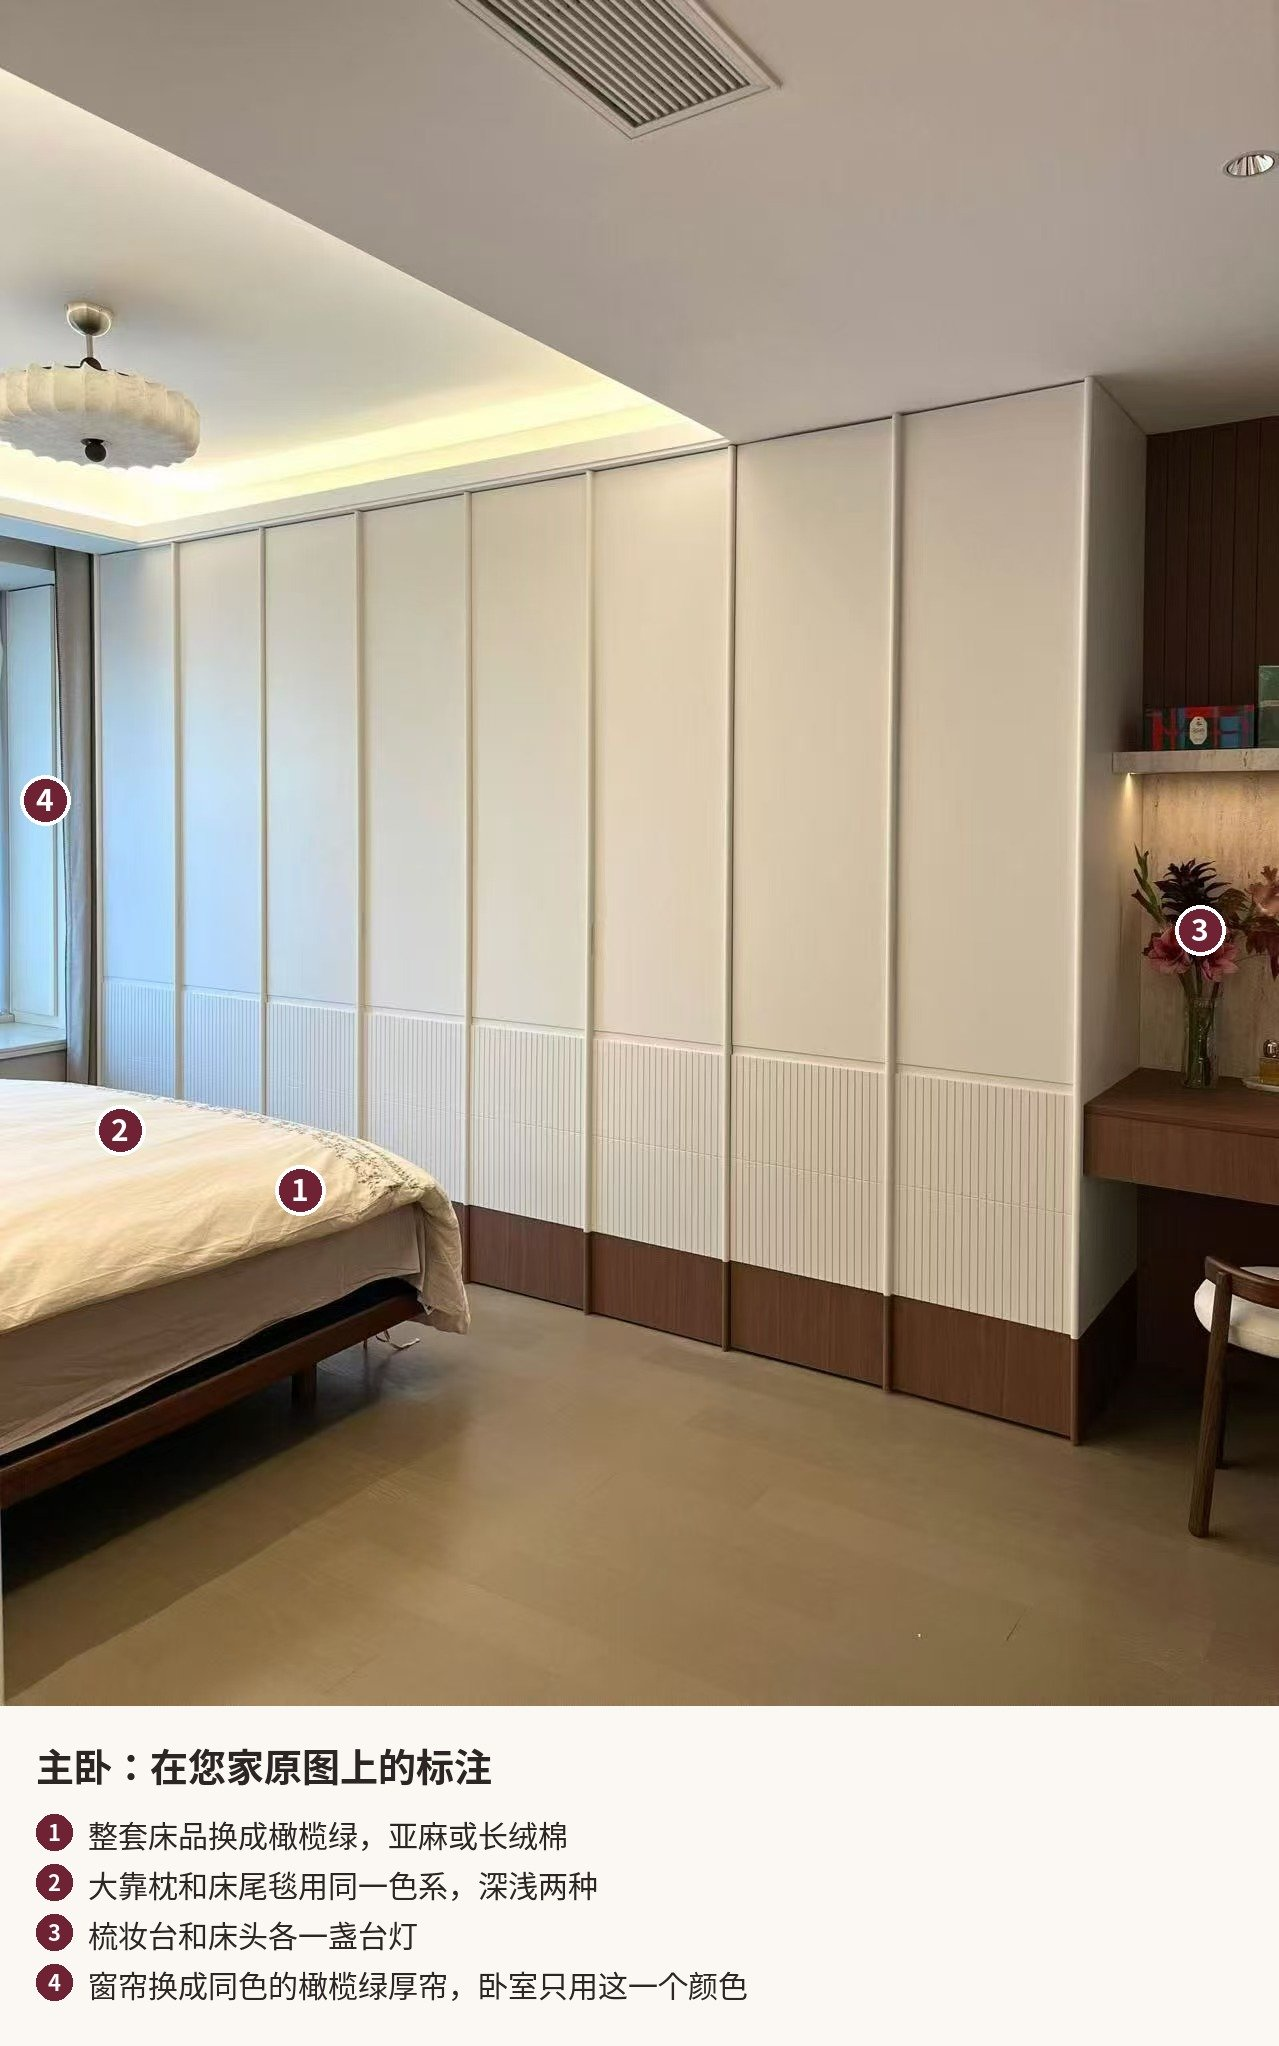
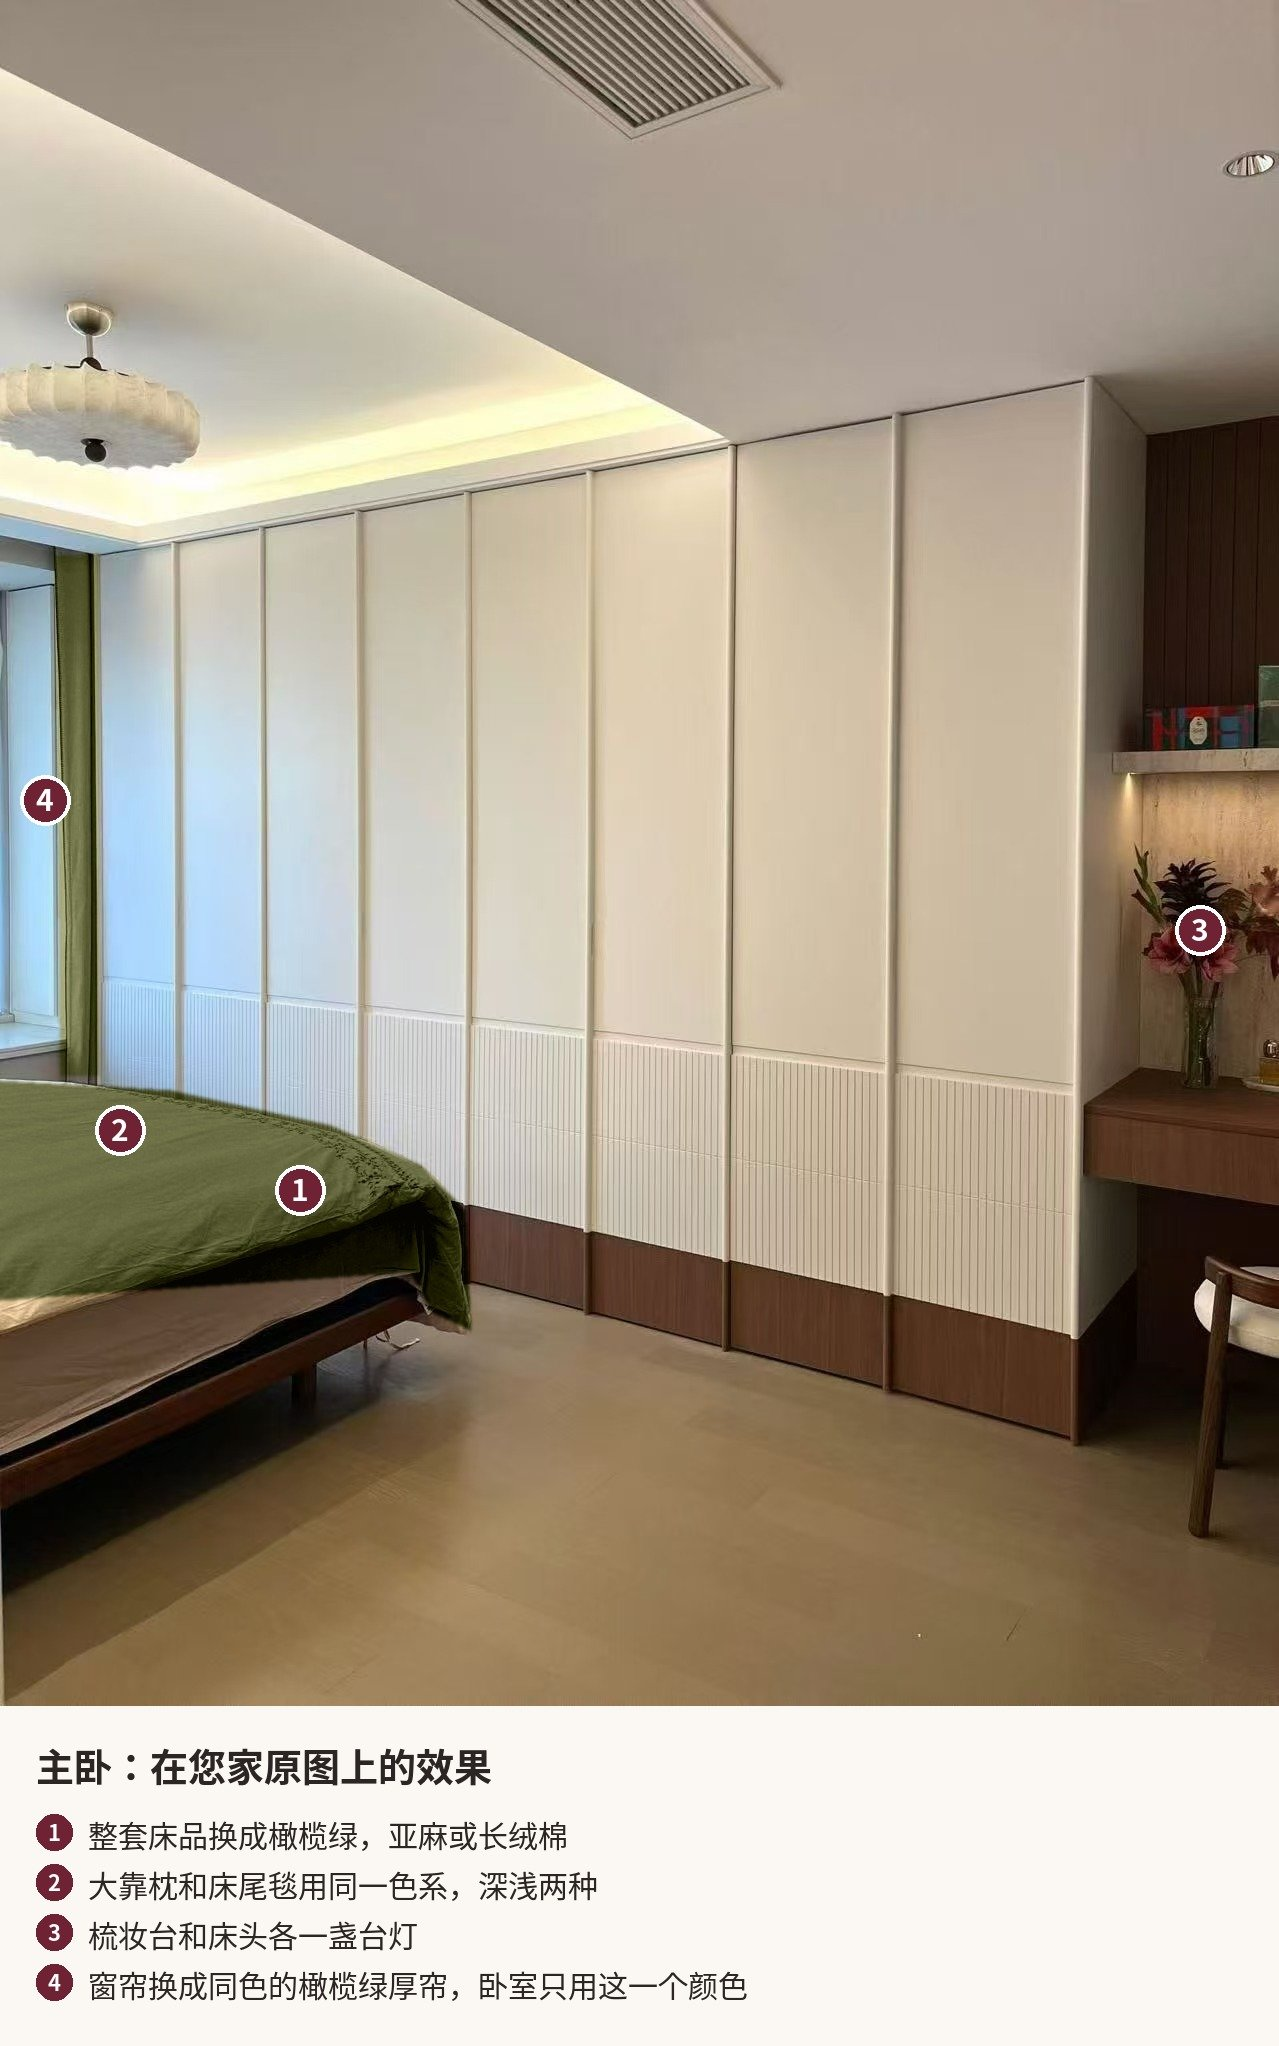
Show the colour changes directly on the window, dining and bedroom photos (#18)
Claude-Session: https://claude.ai/code/session_01C78vDG7r6wFqBLVDH3awmf

Changed region(s): [[0.0, 0.2463, 0.3659, 0.6466], [0.3354, 0.8314, 0.3964, 0.893]]

diff --git a/docs/reports/french-soft-styling/index.html b/docs/reports/french-soft-styling/index.html
@@ -98,7 +98,7 @@ ol.legend{columns:2;column-gap:28px;font-size:.93rem;padding-left:1.3em}
 
 <h2>五、方案：换掉面积最大的软装</h2>
 <p>抱枕和摆件只占画面的一成。真正决定一个房间气质的，是地毯、窗帘、灯、画和床品这几块“大面积”。所以这套方案把预算集中在这里，每一件都选经得起细看的真材料。</p>
-<p class="note">下面五张都是在您家的原图上直接标注的。客厅一张做了换色，方便您感受方向；颜色是程序处理的，质感以实物为准。</p>
+<p class="note">下面五张都是您家的原图。客厅、窗边、餐厅、主卧四张已经直接换成了方案里的颜色，您可以直观看到效果；壁炉墙一张是标注。换色是程序处理的，质感以实物为准。</p>
 
 <h3>客厅</h3>
 <figure><img src="figs/photo-living-bold.jpg" alt="客厅原图预览：酒红色大地毯、橄榄绿功能椅套、酒红与象牙白抱枕、白纱两侧落地厚帘" loading="lazy"><figcaption>图 2　客厅：在您家原图上换色，整面酒红厚帘。</figcaption></figure>
@@ -111,14 +111,14 @@ ol.legend{columns:2;column-gap:28px;font-size:.93rem;padding-left:1.3em}
 </ul>
 
 <h3>窗边</h3>
-<figure><img src="figs/big-window.jpg" alt="窗边原图标注：整面落地厚帘、定制丝绒椅套、大陶盆与第二棵绿植" loading="lazy"><figcaption>图 3　窗边。</figcaption></figure>
+<figure><img src="figs/big-window.jpg" alt="窗边原图标注：整面落地厚帘、定制丝绒椅套、大陶盆与第二棵绿植" loading="lazy"><figcaption>图 3　窗边：整面酒红厚帘，功能椅换成燕麦色。</figcaption></figure>
 <ul>
 <li><strong>落地厚帘：</strong>客餐厅是连通的，所以这一整面窗用同一种酒红厚帘，连成一片。窗帘是竖向的最大面积，最能把层高和法式感拉出来。</li>
 <li><strong>绿植：</strong>鸭掌木换一只大陶盆，旁边再添一棵 1.8 米以上的，一高一低成景。</li>
 </ul>
 
 <h3>餐厅</h3>
-<figure><img src="figs/big-dining.jpg" alt="餐厅原图标注：更有体量的主灯、大幅抽象画、台灯、落地厚帘、烛台与石质浅盘" loading="lazy"><figcaption>图 4　餐厅。</figcaption></figure>
+<figure><img src="figs/big-dining.jpg" alt="餐厅原图标注：更有体量的主灯、大幅抽象画、台灯、落地厚帘、烛台与石质浅盘" loading="lazy"><figcaption>图 4　餐厅：酒红厚帘连到餐厅，墙上换成大幅抽象画。</figcaption></figure>
 <ul>
 <li><strong>主灯：</strong>现在的吊灯相对餐桌偏小。换一盏更有体量的，石膏、手工玻璃或黄铜材质都可以，只换灯具、不动吊顶。灯底离桌面 76–91 厘米（<a target="_blank" rel="noopener" href="https://www.5280.com/2021/02/are-you-making-one-of-these-common-design-mistakes/">5280 采访设计师</a>）。</li>
 <li><strong>挂画：</strong>换一幅 1.2 米以上的抽象画，以酒红和象牙白为主，原创或限量版画，画的中心离地 145–152 厘米（<a target="_blank" rel="noopener" href="https://www.yahoo.com/lifestyle/4-decorating-rules-help-refine-202430346.html">Martha Stewart</a>）。现有的花卉画颜色偏多，建议收起来或挂到走廊。</li>
@@ -134,7 +134,7 @@ ol.legend{columns:2;column-gap:28px;font-size:.93rem;padding-left:1.3em}
 </ul>
 
 <h3>主卧</h3>
-<figure><img src="figs/big-bedroom.jpg" alt="主卧原图标注：整套橄榄绿或酒红床品、大靠枕与床尾毯、台灯、花卉画" loading="lazy"><figcaption>图 6　主卧。</figcaption></figure>
+<figure><img src="figs/big-bedroom.jpg" alt="主卧原图标注：整套橄榄绿或酒红床品、大靠枕与床尾毯、台灯、花卉画" loading="lazy"><figcaption>图 6　主卧：橄榄绿床品和同色窗帘。</figcaption></figure>
 <ul>
 <li><strong>床品：</strong>床是卧室里最大的一块面料。整套换成橄榄绿，亚麻或长绒棉，大靠枕和床尾毯用同色系的深浅两种。</li>
 <li><strong>窗帘：</strong>换成同色的橄榄绿厚帘。这样卧室只有奶白、胡桃木和一整片橄榄绿，安静而且完整。</li>
